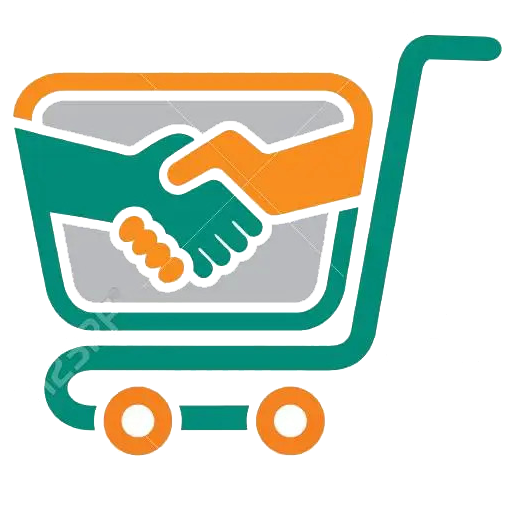
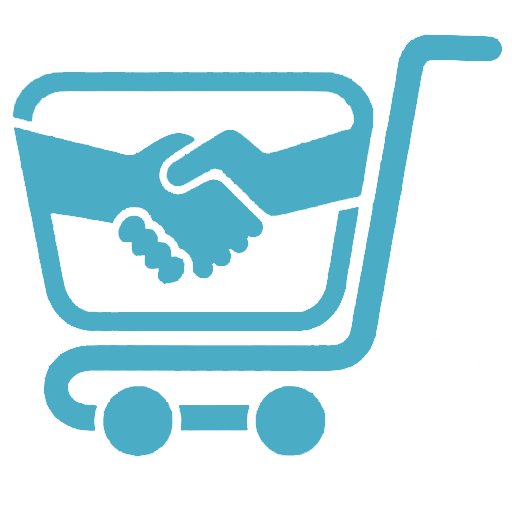
Project color changed

diff --git a/web/src/Router/Routers.js b/web/src/Router/Routers.js
@@ -62,7 +62,7 @@ export const Routers = createBrowserRouter([
     //User dashboard routes
     {
         path: '/dashboard',
-        element: <PrivateRouter><DashboardLayout></DashboardLayout></PrivateRouter>,
+        element: <PrivateRouter><DashboardLayout/></PrivateRouter>,
         errorElement: <ErrorElements></ErrorElements>,
         children: [
             {

diff --git a/web/tailwind.config.js b/web/tailwind.config.js
@@ -4,8 +4,8 @@ module.exports = {
   theme: {
     extend: {
       colors: {
-        "dealogic": "#FE5E05",
-        "secondary": "#FC970E",
+        "dealogic": "#4AACC5",
+        "secondary": "#298aa3",
         "accent": "#191A1F"
       }
     },
